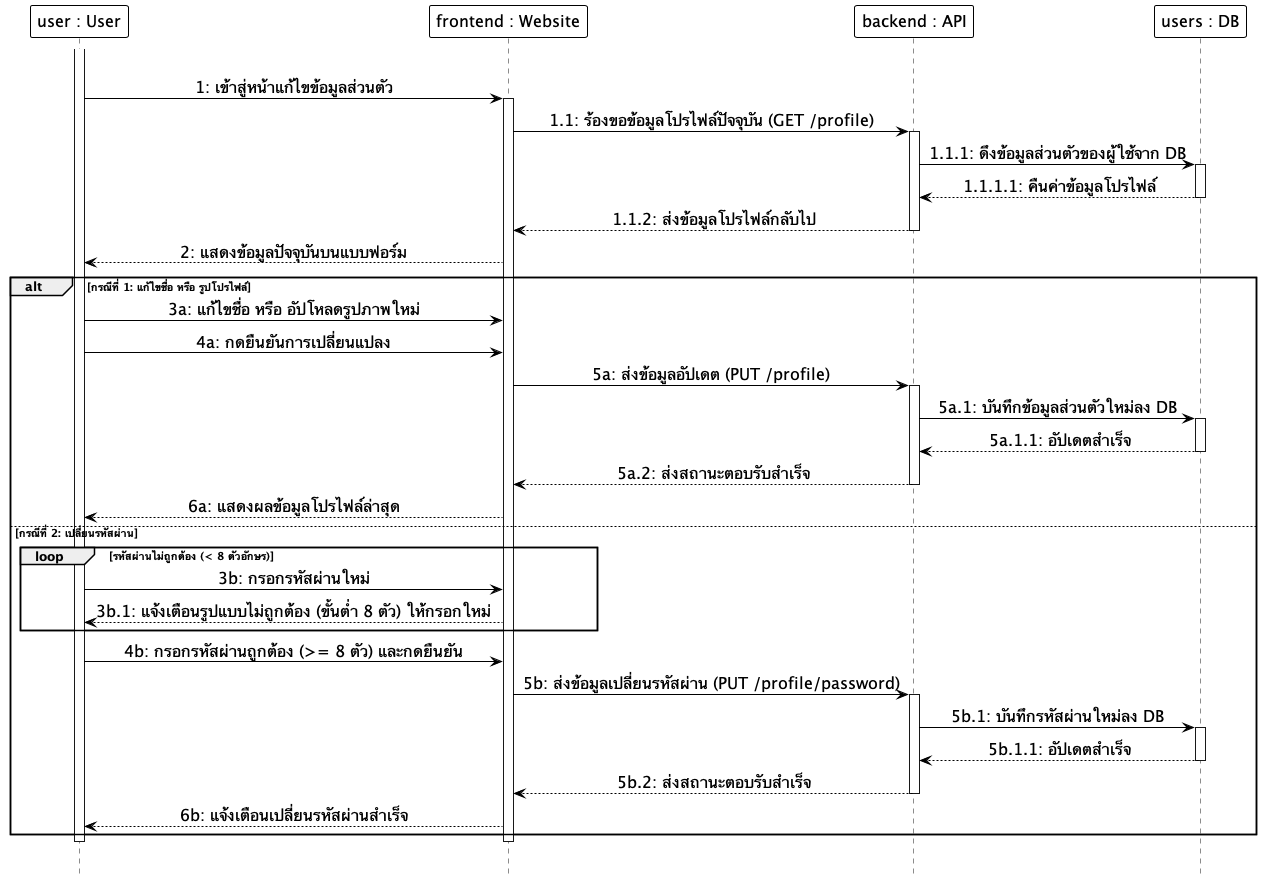
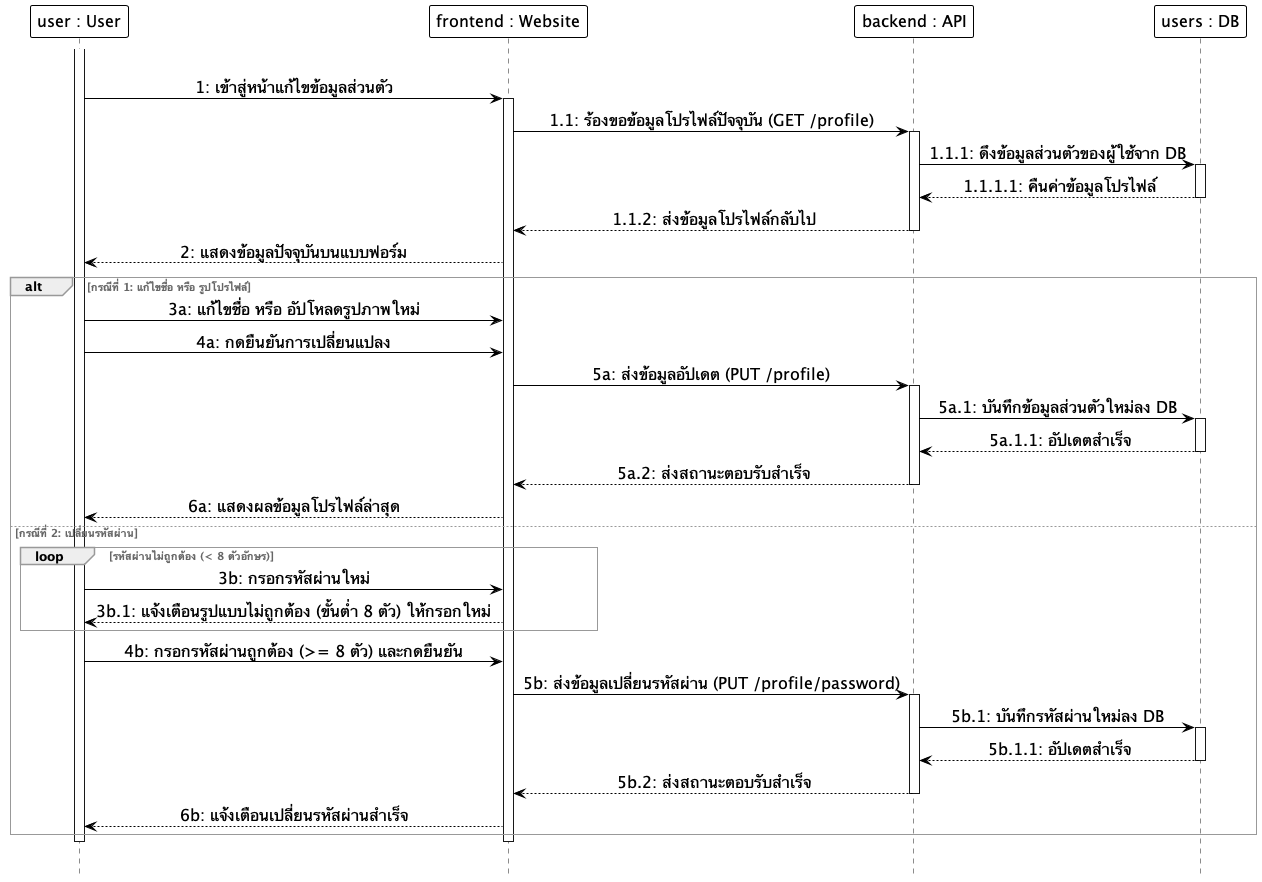
docs: Make sequence diagram alt and loop borders thin and faint

Changed region(s): [[0.0, 0.3061, 1.0, 0.949], [0.0, 0.5816, 0.4635, 0.7347]]

diff --git a/docs/diagrams/plantuml_source/plantuml_sequence_diagrams.md b/docs/diagrams/plantuml_source/plantuml_sequence_diagrams.md
@@ -24,6 +24,9 @@ skinparam LifeLineBorderThickness 7.0
 skinparam ArrowColor black
 skinparam ArrowFontSize 16
 skinparam sequenceMessageAlign center
+skinparam SequenceGroupBorderColor #999999
+skinparam SequenceGroupBorderThickness 1.0
+skinparam SequenceGroupFontColor #666666
 
 participant "user : User" as User
 participant "frontend : Website" as Frontend
@@ -110,6 +113,9 @@ skinparam LifeLineBorderThickness 7.0
 skinparam ArrowColor black
 skinparam ArrowFontSize 16
 skinparam sequenceMessageAlign center
+skinparam SequenceGroupBorderColor #999999
+skinparam SequenceGroupBorderThickness 1.0
+skinparam SequenceGroupFontColor #666666
 
 participant "user : User" as User
 participant "frontend : Website" as Frontend
@@ -186,6 +192,9 @@ skinparam LifeLineBorderThickness 7.0
 skinparam ArrowColor black
 skinparam ArrowFontSize 16
 skinparam sequenceMessageAlign center
+skinparam SequenceGroupBorderColor #999999
+skinparam SequenceGroupBorderThickness 1.0
+skinparam SequenceGroupFontColor #666666
 
 participant "user : User" as User
 participant "frontend : Website" as Frontend
@@ -224,6 +233,9 @@ skinparam LifeLineBorderThickness 7.0
 skinparam ArrowColor black
 skinparam ArrowFontSize 16
 skinparam sequenceMessageAlign center
+skinparam SequenceGroupBorderColor #999999
+skinparam SequenceGroupBorderThickness 1.0
+skinparam SequenceGroupFontColor #666666
 
 participant "user : User" as User
 participant "frontend : Website" as Frontend
@@ -263,6 +275,9 @@ skinparam LifeLineBorderThickness 7.0
 skinparam ArrowColor black
 skinparam ArrowFontSize 16
 skinparam sequenceMessageAlign center
+skinparam SequenceGroupBorderColor #999999
+skinparam SequenceGroupBorderThickness 1.0
+skinparam SequenceGroupFontColor #666666
 
 participant "user : User" as User
 participant "frontend : Website" as Frontend
@@ -322,6 +337,9 @@ skinparam LifeLineBorderThickness 7.0
 skinparam ArrowColor black
 skinparam ArrowFontSize 16
 skinparam sequenceMessageAlign center
+skinparam SequenceGroupBorderColor #999999
+skinparam SequenceGroupBorderThickness 1.0
+skinparam SequenceGroupFontColor #666666
 
 participant "user : User" as User
 participant "frontend : Website" as Frontend
@@ -375,6 +393,9 @@ skinparam LifeLineBorderThickness 7.0
 skinparam ArrowColor black
 skinparam ArrowFontSize 16
 skinparam sequenceMessageAlign center
+skinparam SequenceGroupBorderColor #999999
+skinparam SequenceGroupBorderThickness 1.0
+skinparam SequenceGroupFontColor #666666
 
 participant "user : User" as User
 participant "frontend : Website" as Frontend
@@ -428,6 +449,9 @@ skinparam LifeLineBorderThickness 7.0
 skinparam ArrowColor black
 skinparam ArrowFontSize 16
 skinparam sequenceMessageAlign center
+skinparam SequenceGroupBorderColor #999999
+skinparam SequenceGroupBorderThickness 1.0
+skinparam SequenceGroupFontColor #666666
 
 participant "user : User" as User
 participant "frontend : Website" as Frontend
@@ -475,6 +499,9 @@ skinparam LifeLineBorderThickness 7.0
 skinparam ArrowColor black
 skinparam ArrowFontSize 16
 skinparam sequenceMessageAlign center
+skinparam SequenceGroupBorderColor #999999
+skinparam SequenceGroupBorderThickness 1.0
+skinparam SequenceGroupFontColor #666666
 
 participant "user : User" as User
 participant "frontend : Website" as Frontend
@@ -523,6 +550,9 @@ skinparam LifeLineBorderThickness 7.0
 skinparam ArrowColor black
 skinparam ArrowFontSize 16
 skinparam sequenceMessageAlign center
+skinparam SequenceGroupBorderColor #999999
+skinparam SequenceGroupBorderThickness 1.0
+skinparam SequenceGroupFontColor #666666
 
 participant "user : User" as User
 participant "frontend : Website" as Frontend
@@ -561,6 +591,9 @@ skinparam LifeLineBorderThickness 7.0
 skinparam ArrowColor black
 skinparam ArrowFontSize 16
 skinparam sequenceMessageAlign center
+skinparam SequenceGroupBorderColor #999999
+skinparam SequenceGroupBorderThickness 1.0
+skinparam SequenceGroupFontColor #666666
 
 participant "actor : User" as User
 participant "frontend : Website" as Frontend
@@ -657,6 +690,9 @@ skinparam LifeLineBorderThickness 7.0
 skinparam ArrowColor black
 skinparam ArrowFontSize 16
 skinparam sequenceMessageAlign center
+skinparam SequenceGroupBorderColor #999999
+skinparam SequenceGroupBorderThickness 1.0
+skinparam SequenceGroupFontColor #666666
 
 participant "actor : User" as User
 participant "frontend : Website" as Frontend
@@ -695,6 +731,9 @@ skinparam LifeLineBorderThickness 7.0
 skinparam ArrowColor black
 skinparam ArrowFontSize 16
 skinparam sequenceMessageAlign center
+skinparam SequenceGroupBorderColor #999999
+skinparam SequenceGroupBorderThickness 1.0
+skinparam SequenceGroupFontColor #666666
 
 participant "admin : Admin" as Admin
 participant "frontend : Website" as Frontend
@@ -751,6 +790,9 @@ skinparam LifeLineBorderThickness 7.0
 skinparam ArrowColor black
 skinparam ArrowFontSize 16
 skinparam sequenceMessageAlign center
+skinparam SequenceGroupBorderColor #999999
+skinparam SequenceGroupBorderThickness 1.0
+skinparam SequenceGroupFontColor #666666
 
 participant "admin : Admin" as Admin
 participant "frontend : Website" as Frontend
@@ -798,6 +840,9 @@ skinparam LifeLineBorderThickness 7.0
 skinparam ArrowColor black
 skinparam ArrowFontSize 16
 skinparam sequenceMessageAlign center
+skinparam SequenceGroupBorderColor #999999
+skinparam SequenceGroupBorderThickness 1.0
+skinparam SequenceGroupFontColor #666666
 
 participant "admin : Admin" as Admin
 participant "frontend : Website" as Frontend
